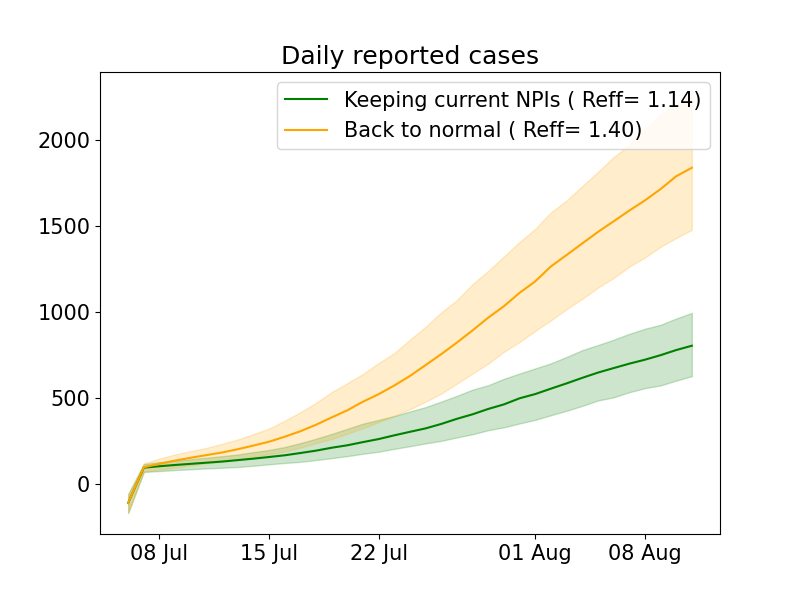
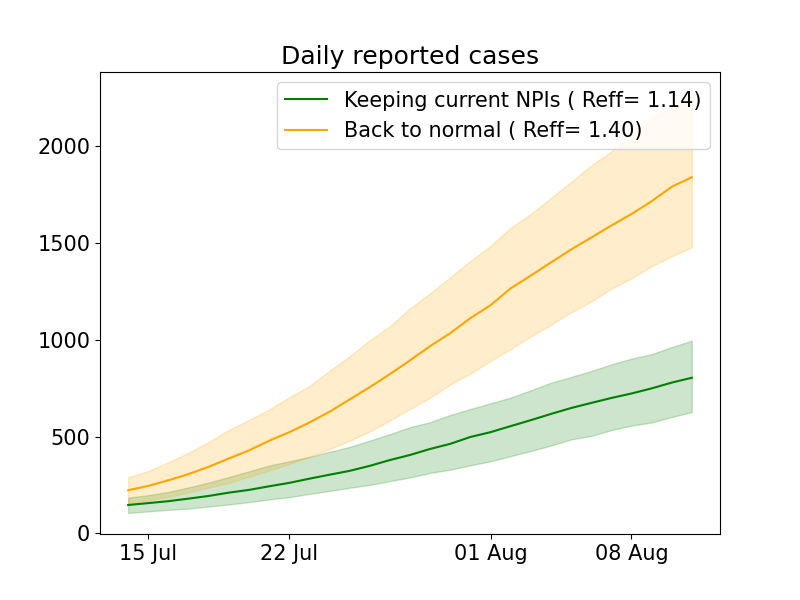
functiona to get the different inputs

diff --git a/generate_charts_report.py b/generate_charts_report.py
@@ -37,6 +37,8 @@ def main(country_iso3='AFG',download_covid=False):
         get_covid_data(WHO_COVID_URL,f'{DIR_PATH}/{WHO_COVID_FILENAME}')
     set_matlotlib(plt)
 
+    # generate_key_figures(country_iso3,parameters)
+
     generate_current_status(country_iso3,parameters)
     generate_daily_projections(country_iso3,parameters)
     plt.show()
@@ -56,20 +58,20 @@ def get_covid_data(url, save_path):
     except Exception:
         print(f'Cannot download COVID file from from HDX')
 
-def generate_daily_projections(country_iso3,parameters):
-   # get bucky with NPIs 
-    bucky_npi=pd.read_csv(f'Bucky_results/{country_iso3}_npi/adm0_quantiles.csv')
+def get_bucky(country_iso3,admin_level,min_date,max_date,npi_filter):
+    # get bucky with NPIs 
+    bucky_npi=pd.read_csv(f'Bucky_results/{country_iso3}_{npi_filter}/{admin_level}_quantiles.csv')
     bucky_npi['date']=pd.to_datetime(bucky_npi['date']).dt.date
-    bucky_npi=bucky_npi[(bucky_npi['date']>=LAST_MONTH) &\
-                        (bucky_npi['date']<=THREE_MONTHS)]
+    bucky_npi=bucky_npi[(bucky_npi['date']>=min_date) &\
+                        (bucky_npi['date']<=max_date)]
     bucky_npi=bucky_npi.set_index('date')
-    
-    # get bucky without NPIs 
-    bucky_no_npi=pd.read_csv(f'Bucky_results/{country_iso3}_no_npi/adm0_quantiles.csv')
-    bucky_no_npi['date']=pd.to_datetime(bucky_no_npi['date']).dt.date
-    bucky_no_npi=bucky_no_npi[(bucky_no_npi['date']>=LAST_MONTH) &\
-                        (bucky_no_npi['date']<=THREE_MONTHS)]
-    bucky_no_npi=bucky_no_npi.set_index('date')
+    return bucky_npi
+
+
+def generate_daily_projections(country_iso3,parameters):
+   
+    bucky_npi=get_bucky(country_iso3,admin_level='adm0',min_date=TODAY,max_date=THREE_MONTHS,npi_filter='npi')
+    bucky_no_npi=get_bucky(country_iso3,admin_level='adm0',min_date=TODAY,max_date=THREE_MONTHS,npi_filter='no_npi')
 
     draw_daily_projections(country_iso3,bucky_npi,bucky_no_npi,parameters,'daily_cases_reported')
     draw_daily_projections(country_iso3,bucky_npi,bucky_no_npi,parameters,'daily_deaths')
@@ -112,37 +114,32 @@ def draw_daily_projections(country_iso3,bucky_npi,bucky_no_npi,parameters,metric
     plt.legend()
     fig.savefig(f'Outputs/{country_iso3}/projection_{metric}.png')
 
-
-
-def generate_current_status(country_iso3,parameters):
+def get_subnational_covid(parameters,aggregate,min_date,max_date):
     # get subnational from COVID parameterization repo
     subnational_covid=pd.read_csv(parameters['subnational_cases_url'])
     subnational_covid[HLX_TAG_DATE]=pd.to_datetime(subnational_covid[HLX_TAG_DATE]).dt.date
-    subnational_covid=subnational_covid[(subnational_covid[HLX_TAG_DATE]>=LAST_MONTH) &\
-                                        (subnational_covid[HLX_TAG_DATE]<=TODAY)]
-    subnational_covid=subnational_covid.groupby(HLX_TAG_DATE).sum()
+    subnational_covid=subnational_covid[(subnational_covid[HLX_TAG_DATE]>=min_date) &\
+                                        (subnational_covid[HLX_TAG_DATE]<=max_date)]
+    if aggregate:
+        subnational_covid=subnational_covid.groupby(HLX_TAG_DATE).sum()
+    return subnational_covid
 
+def get_who_covid(country_iso3,min_date,max_date):
     # Get national level data from WHO
     who_covid=pd.read_csv(WHO_COVID_FILENAME)
     who_covid=who_covid[who_covid['ISO_3_CODE']==country_iso3]
     who_covid['date_epicrv']=pd.to_datetime(who_covid['date_epicrv']).dt.date
-    who_covid=who_covid[(who_covid['date_epicrv']>=LAST_MONTH) &\
-                        (who_covid['date_epicrv']<=TODAY)]
+    who_covid=who_covid[(who_covid['date_epicrv']>=min_date) &\
+                        (who_covid['date_epicrv']<=max_date)]
     who_covid=who_covid.set_index('date_epicrv')
-    
-    # get bucky with NPIs 
-    bucky_npi=pd.read_csv(f'Bucky_results/{country_iso3}_npi/adm0_quantiles.csv')
-    bucky_npi['date']=pd.to_datetime(bucky_npi['date']).dt.date
-    bucky_npi=bucky_npi[(bucky_npi['date']>=LAST_MONTH) &\
-                        (bucky_npi['date']<=FOUR_WEEKS)]
-    bucky_npi=bucky_npi.set_index('date')
-    
-    # get bucky without NPIs 
-    bucky_no_npi=pd.read_csv(f'Bucky_results/{country_iso3}_no_npi/adm0_quantiles.csv')
-    bucky_no_npi['date']=pd.to_datetime(bucky_no_npi['date']).dt.date
-    bucky_no_npi=bucky_no_npi[(bucky_no_npi['date']>=LAST_MONTH) &\
-                        (bucky_no_npi['date']<=FOUR_WEEKS)]
-    bucky_no_npi=bucky_no_npi.set_index('date')
+    return who_covid
+
+def generate_current_status(country_iso3,parameters):
+
+    subnational_covid=get_subnational_covid(parameters,aggregate=True,min_date=LAST_MONTH,max_date=FOUR_WEEKS)
+    who_covid=get_who_covid(country_iso3,min_date=LAST_MONTH,max_date=FOUR_WEEKS)
+    bucky_npi=get_bucky(country_iso3,admin_level='adm0',min_date=LAST_MONTH,max_date=FOUR_WEEKS,npi_filter='npi')
+    bucky_no_npi=get_bucky(country_iso3,admin_level='adm0',min_date=LAST_MONTH,max_date=FOUR_WEEKS,npi_filter='no_npi')
     
     draw_current_status(country_iso3,subnational_covid,who_covid,bucky_npi,bucky_no_npi,parameters,'cumulative_reported_cases')
     draw_current_status(country_iso3,subnational_covid,who_covid,bucky_npi,bucky_no_npi,parameters,'cumulative_deaths')
